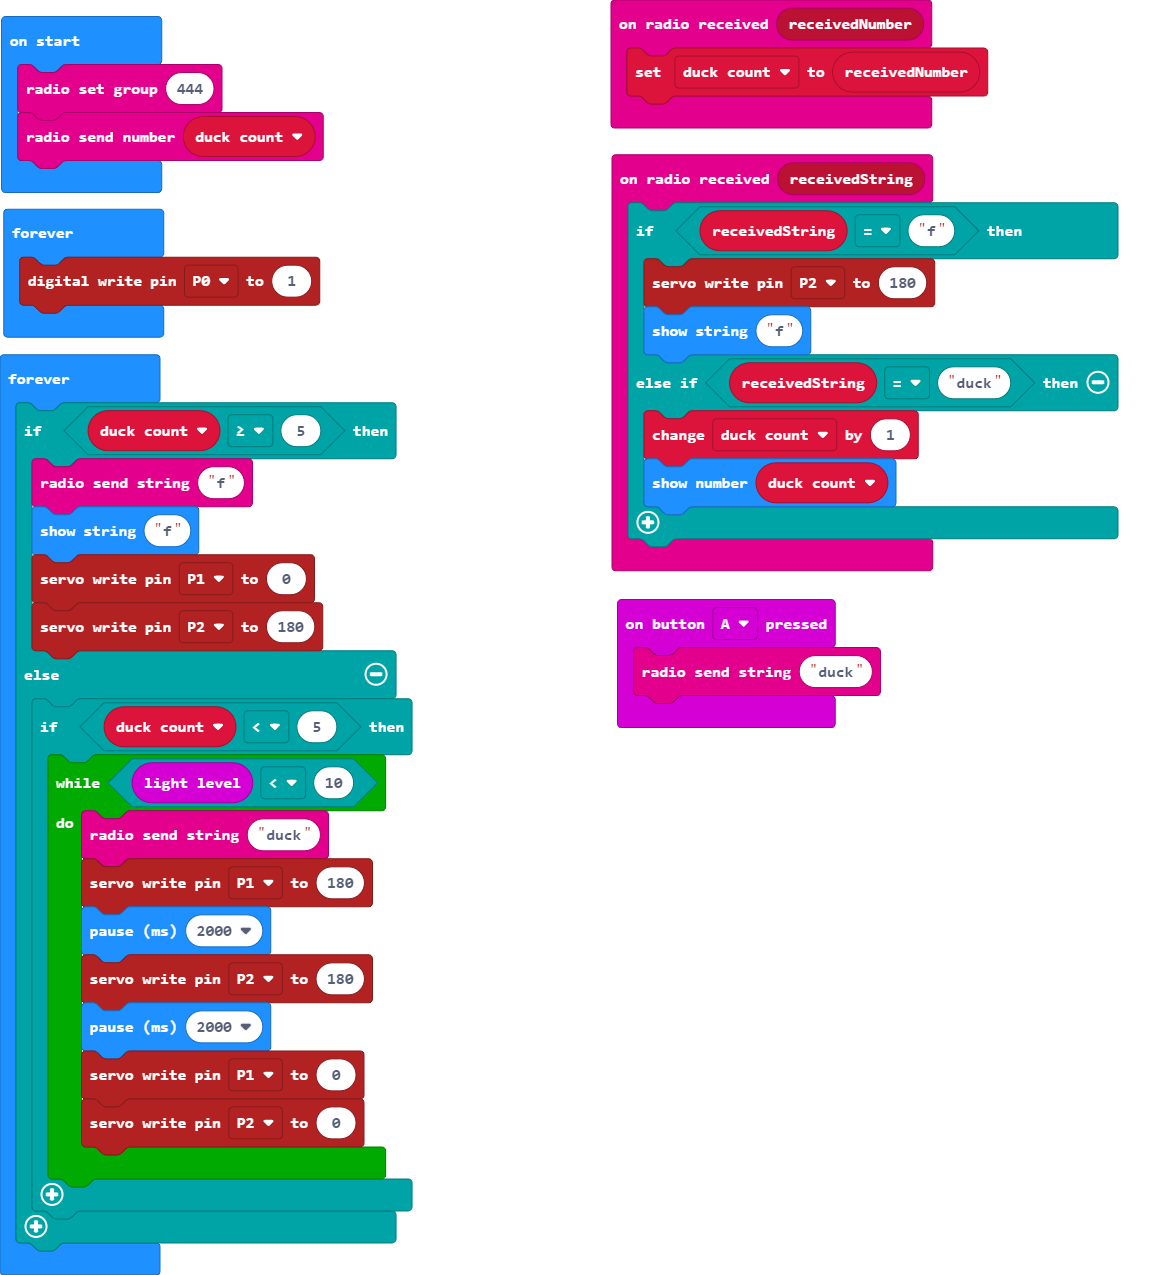
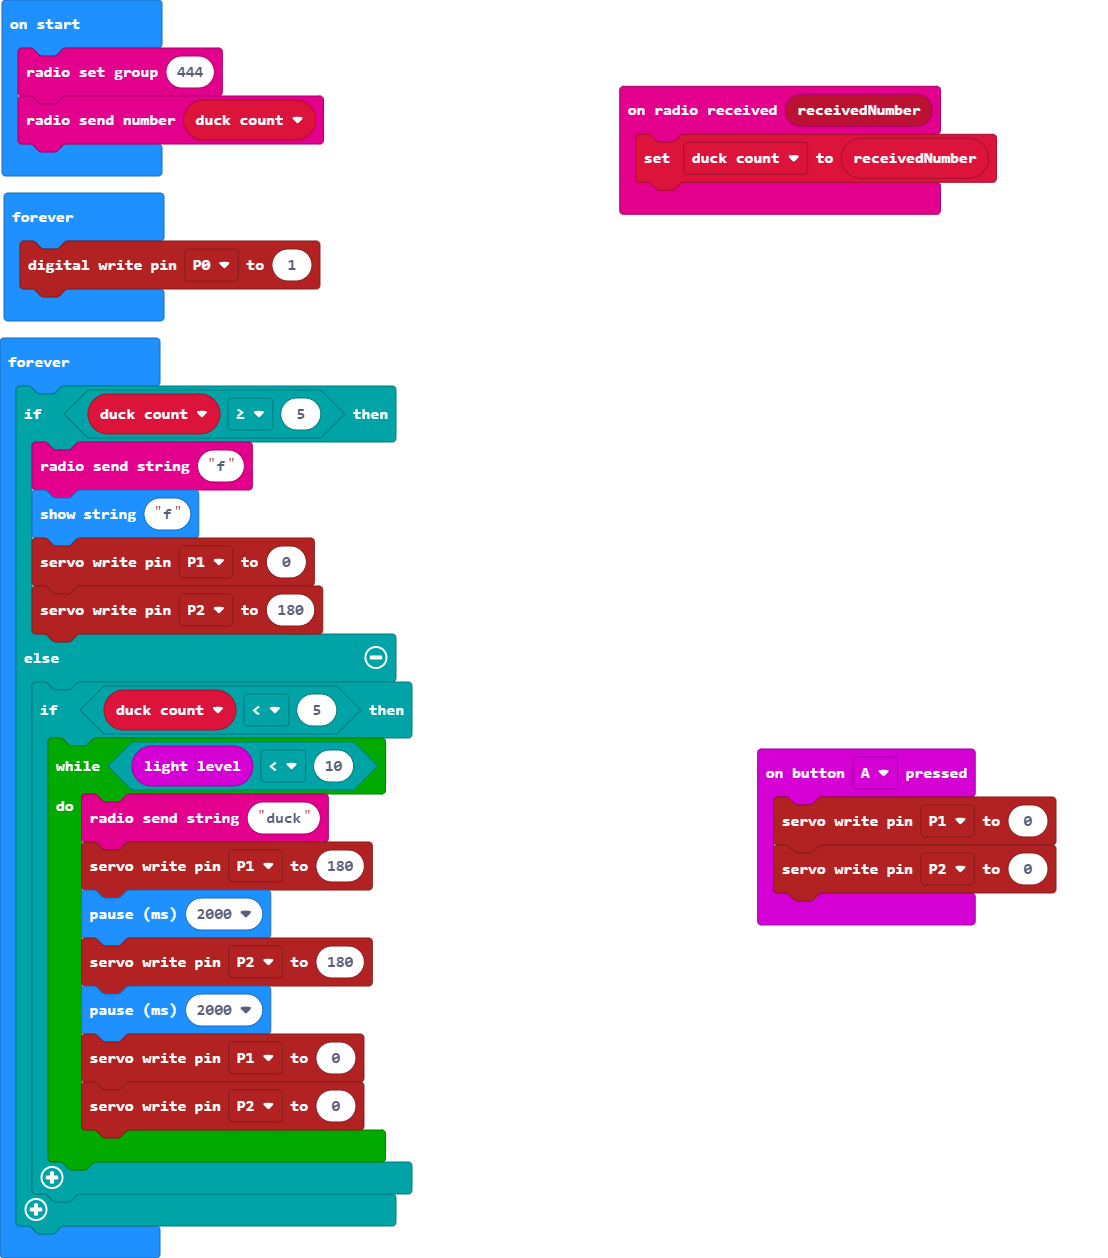
Update main.blocks, main.ts

Changed region(s): [[0.0, 0.0, 0.3989, 0.9921], [0.5217, 0.0, 0.9819, 0.744], [0.1227, 0.961, 0.1534, 1.0]]

diff --git a/main.ts b/main.ts
@@ -2,16 +2,8 @@ radio.onReceivedNumber(function (receivedNumber) {
     duck_count = receivedNumber
 })
 input.onButtonPressed(Button.A, function () {
-    radio.sendString("duck")
-})
-radio.onReceivedString(function (receivedString) {
-    if (receivedString == "f") {
-        pins.servoWritePin(AnalogPin.P2, 180)
-        basic.showString("f")
-    } else if (receivedString == "duck") {
-        duck_count += 1
-        basic.showNumber(duck_count)
-    }
+    pins.servoWritePin(AnalogPin.P1, 0)
+    pins.servoWritePin(AnalogPin.P2, 0)
 })
 let duck_count = 0
 radio.setGroup(444)
